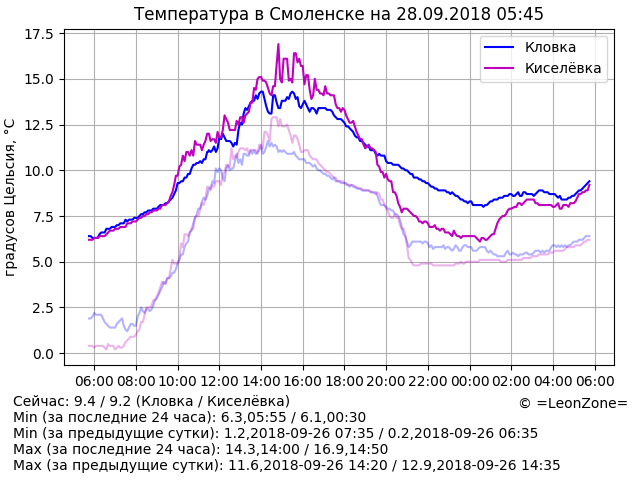
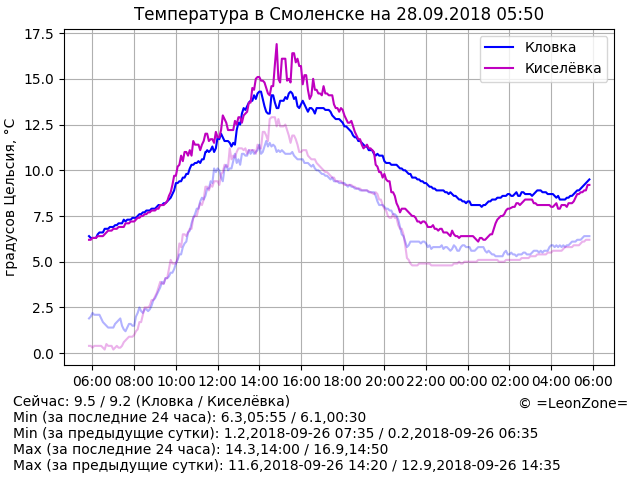
Update data

Changed region(s): [[0.125, 0.0938, 0.9375, 0.75], [0.0938, 0.7812, 0.9688, 0.8438], [0.8125, 0.0, 0.8438, 0.0625]]

diff --git a/index.html b/index.html
@@ -14,7 +14,7 @@
 	<p align="center"><script>document.write("<img src=\"graph.png?rnd="+Math.random()+"\" alt=\"Температура в Смоленске\" align=\"middle\" width=\"640\" height=\"480\" />")</script>
 	<p hidden="true">
 <!-- textinfo -->
-Сейчас: 9.4 / 9.2 (Кловка / Киселёвка)
+Сейчас: 9.5 / 9.2 (Кловка / Киселёвка)
 Min (за последние 24 часа): 6.3,05:55 / 6.1,00:30
 Min (за предыдущие сутки): 1.2,2018-09-26 07:35 / 0.2,2018-09-26 06:35
 Max (за последние 24 часа): 14.3,14:00 / 16.9,14:50
